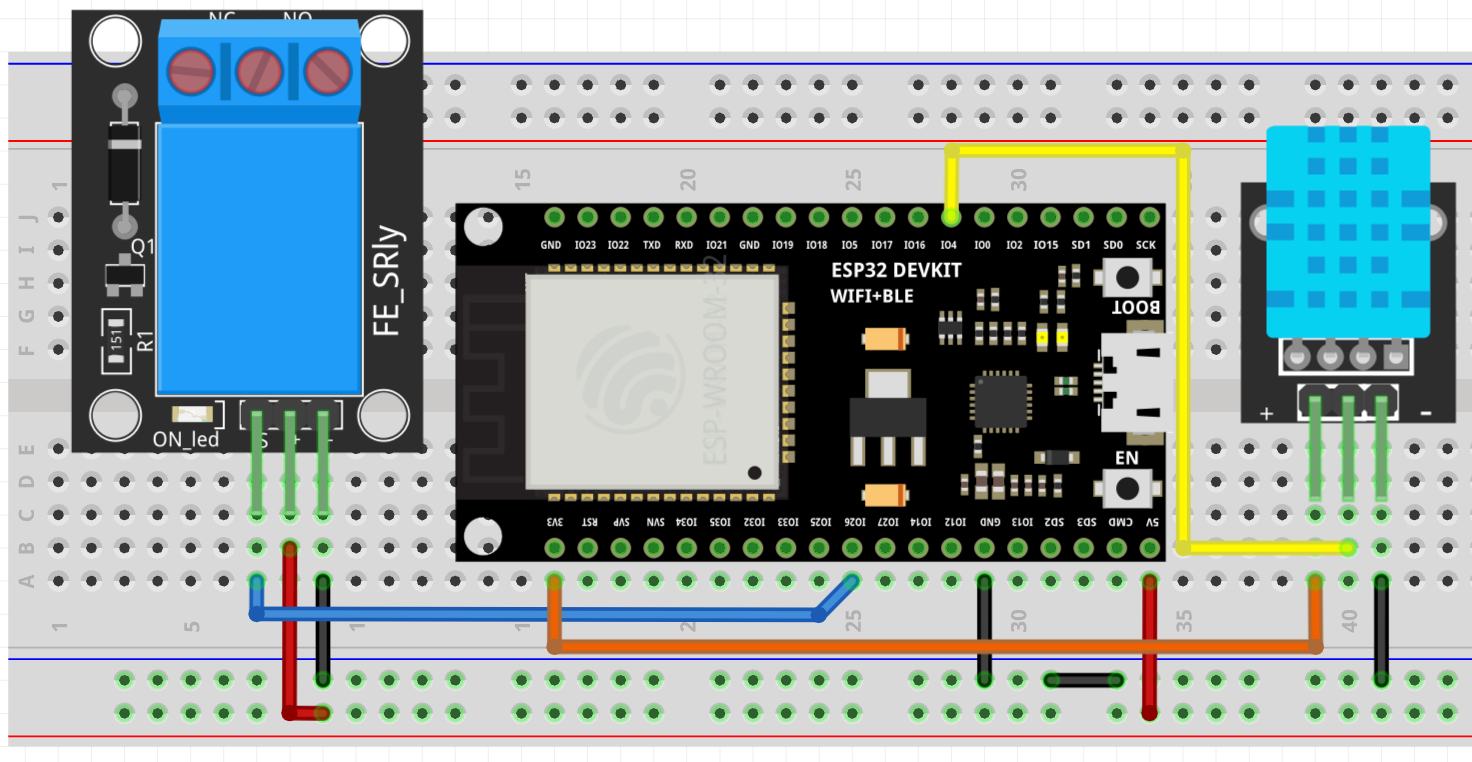
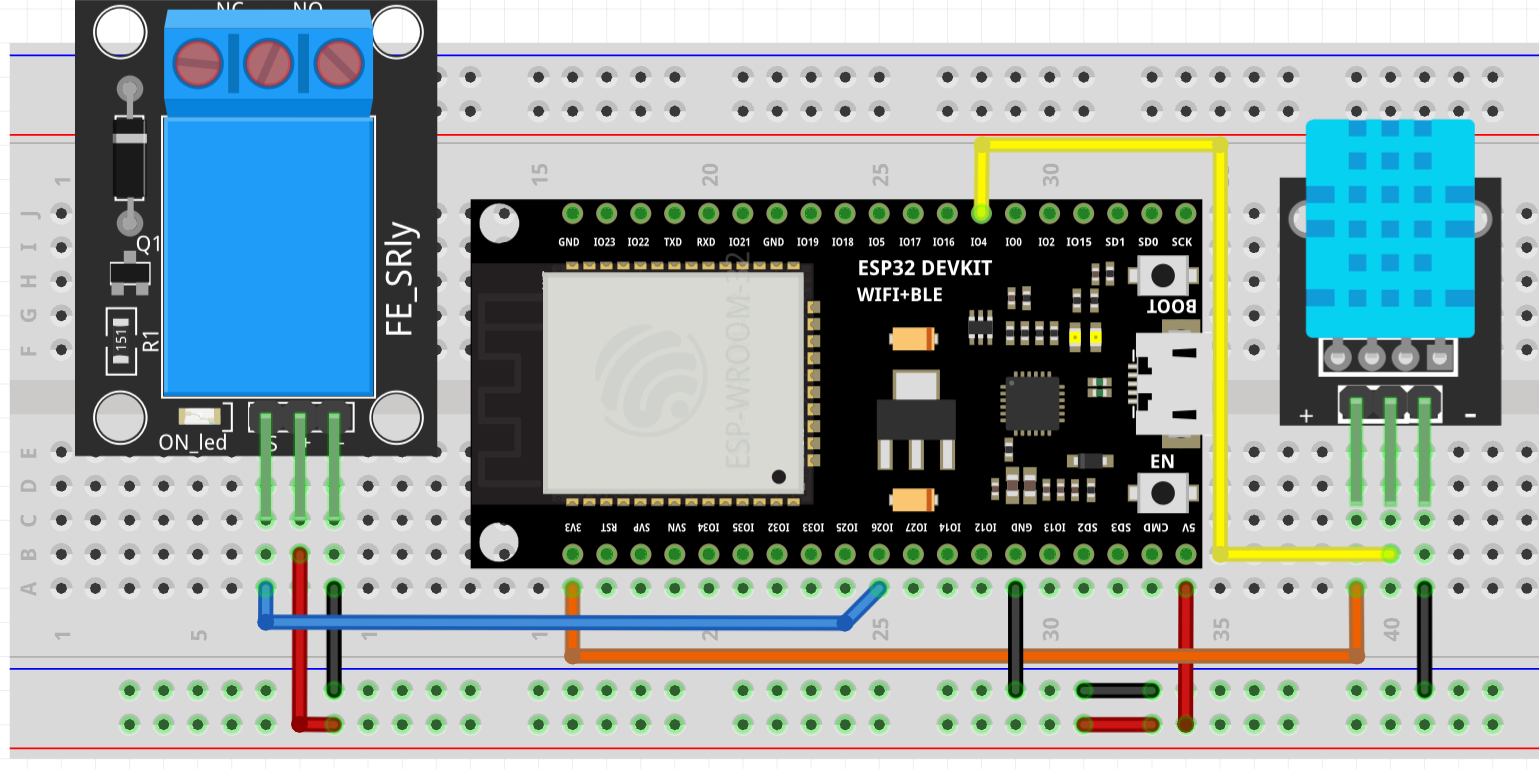
fix(fsiot): #94 ganti gambar utama breadboard otomasi (versi baru)
Replace FS-24 main breadboard figure with the updated user wiring photo; keep GPIO 4 / GPIO 26 pin legend.

diff --git a/database/seeders/Article94Seeder.php b/database/seeders/Article94Seeder.php
@@ -186,7 +186,7 @@ HTML;
     {
         return <<<'HTML'
 <figure style="margin:1.5rem 0;max-width:100%;background:#F5F5F0;border:2.5px solid #1a1a1a;border-radius:8px;padding:0.75rem 0.75rem 0.35rem">
-  <img src="/images/fsiot/fs24-otomasi-breadboard.png" width="1472" height="762" alt="Gambar utama — rangkaian otomasi DHT GPIO 4 + relay GPIO 26 di breadboard" loading="eager" style="width:100%;height:auto;max-height:560px;object-fit:contain;border-radius:6px;background:#fff">
+  <img src="/images/fsiot/fs24-otomasi-breadboard.png" width="1539" height="769" alt="Gambar utama — rangkaian otomasi DHT GPIO 4 + relay GPIO 26 di breadboard" loading="eager" style="width:100%;height:auto;max-height:560px;object-fit:contain;border-radius:6px;background:#fff">
   <figcaption style="font-size:0.85rem;margin-top:0.5rem;color:#1a1a1a;">
     <strong>Gambar utama — rangkaian otomasi di breadboard.</strong> Legenda warna: <strong>kuning</strong> = <strong>IO4 / GPIO 4</strong> → DATA sensor · <strong>oranye</strong> = <strong>3V3</strong> → VCC sensor · <strong>biru</strong> = <strong>IO26 / GPIO 26</strong> → pin <strong>S</strong> relay · <strong>merah</strong> = <strong>5V</strong> → pin <strong>+</strong> relay · <strong>hitam</strong> = <strong>GND</strong> bersama. Terminal NC/COM/NO boleh kosong.
     <br><em>Tip:</em> nomor kolom breadboard (mis. “25”) <strong>bukan</strong> nomor GPIO — ikuti label silkscreen <strong>IO4</strong> / <strong>IO26</strong>. Jangan satukan <strong>3V3</strong> dan <strong>5V</strong> di satu rail merah yang kontinu (bisa merusak board); di foto ini VCC sensor memakai jumper oranye khusus dari pin 3V3. Bentuk sensor di diagram bisa mirip DHT11/DHT22 — cocokkan silkscreen; sketch default = <strong>DHT22</strong> (ubah <code>DHTTYPE</code> jika DHT11).
@@ -200,7 +200,7 @@ HTML;
     {
         return <<<'HTML'
 <figure style="margin:1.5rem 0;max-width:100%;background:#F5F5F0;border:2.5px solid #1a1a1a;border-radius:8px;padding:0.75rem 0.75rem 0.35rem">
-  <img src="/images/fsiot/fs24-otomasi-breadboard.png" width="1472" height="762" alt="Main figure — DHT GPIO 4 + relay GPIO 26 breadboard automation" loading="eager" style="width:100%;height:auto;max-height:560px;object-fit:contain;border-radius:6px;background:#fff">
+  <img src="/images/fsiot/fs24-otomasi-breadboard.png" width="1539" height="769" alt="Main figure — DHT GPIO 4 + relay GPIO 26 breadboard automation" loading="eager" style="width:100%;height:auto;max-height:560px;object-fit:contain;border-radius:6px;background:#fff">
   <figcaption style="font-size:0.85rem;margin-top:0.5rem;color:#1a1a1a;">
     <strong>Main figure — local automation on a breadboard.</strong> Color key: <strong>yellow</strong> = <strong>IO4 / GPIO 4</strong> → sensor DATA · <strong>orange</strong> = <strong>3V3</strong> → sensor VCC · <strong>blue</strong> = <strong>IO26 / GPIO 26</strong> → relay <strong>S</strong> · <strong>red</strong> = <strong>5V</strong> → relay <strong>+</strong> · <strong>black</strong> = shared <strong>GND</strong>. NC/COM/NO may stay empty.
     <br><em>Tip:</em> breadboard column numbers (e.g. “25”) are <strong>not</strong> GPIO numbers — follow silkscreen <strong>IO4</strong> / <strong>IO26</strong>. Do not tie <strong>3V3</strong> and <strong>5V</strong> onto one continuous red rail (can damage the board); here sensor VCC uses a dedicated orange jumper from the 3V3 pin. The sensor part may look like DHT11 or DHT22 — match silkscreen; sketch default = <strong>DHT22</strong> (change <code>DHTTYPE</code> for DHT11).
